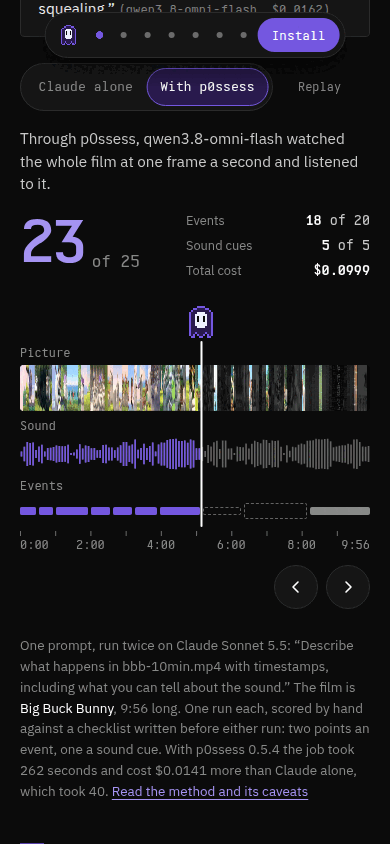
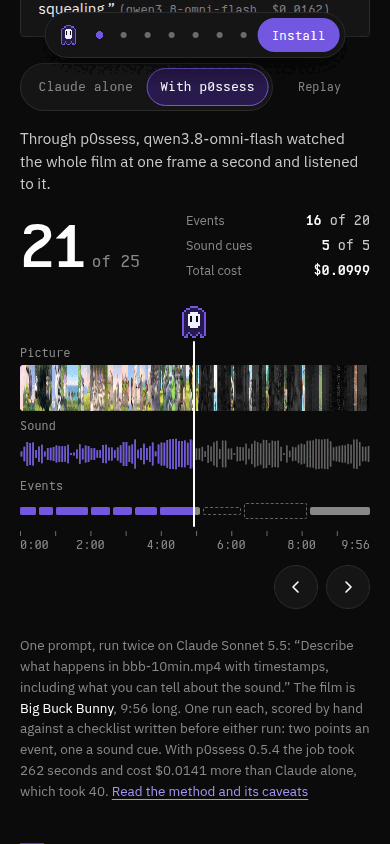
site: shots retaken, with the two answers part-way through coming back

Changed region(s): [[0.0615, 0.2464, 0.2154, 0.3389], [0.4615, 0.3389, 0.5538, 0.6469], [0.8, 0.2464, 0.8308, 0.2773]]

diff --git a/site/shoot.js b/site/shoot.js
@@ -5,7 +5,8 @@
 // are printed.
 // --full adds a full-page capture at each size.
 // --live also captures the motion: the hero's sweep at fixed moments after it starts (desktop
-// and phone), the hand-off figure part-way through, and the island over a later section.
+// and phone), the two answers under the abilities and the hand-off figure part-way through,
+// and the island over a later section.
 // --og writes the share image: the top of the hero at 1200x630, reduced motion, device scale 1.
 // Needs playwright-core: `npm i playwright-core`, or set PLAYWRIGHT_CORE to a copy of it
 // (Playwright for Python ships one as playwright/driver/package, next to its own node).
@@ -96,6 +97,12 @@ srv.listen(0, "127.0.0.1", async () => {
       await ctx.close();
     }
     const { ctx, pg } = await open(sizes[0][1], "no-preference", "live");
+    if (want("can")) {
+      // The two answers under the abilities, part-way through coming back.
+      await scrollTo(pg, "#can .grid", "center");
+      await pg.waitForTimeout(1300);
+      await shot(pg, "live-can.png");
+    }
     if (want("how")) {
       await scrollTo(pg, ".relay", "center");
       await pg.waitForTimeout(2200);
